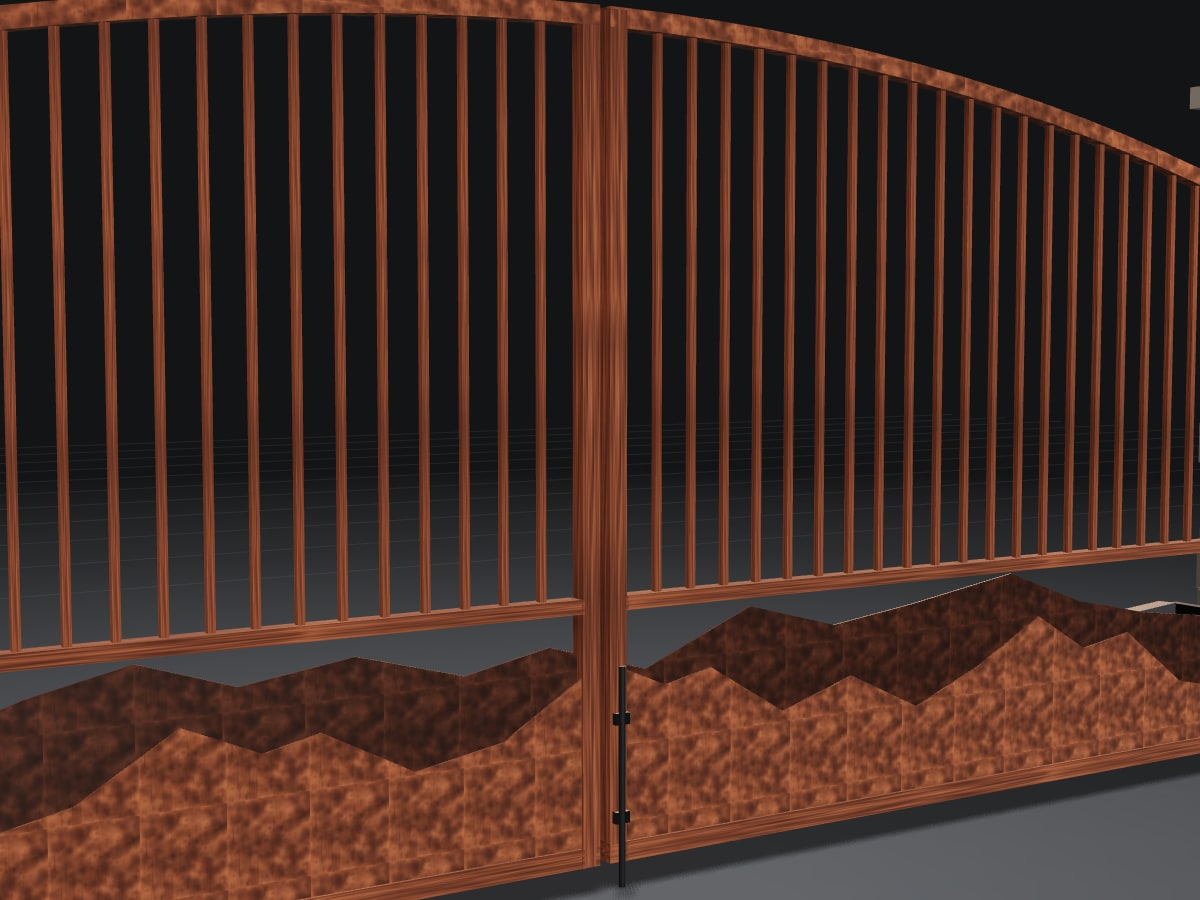
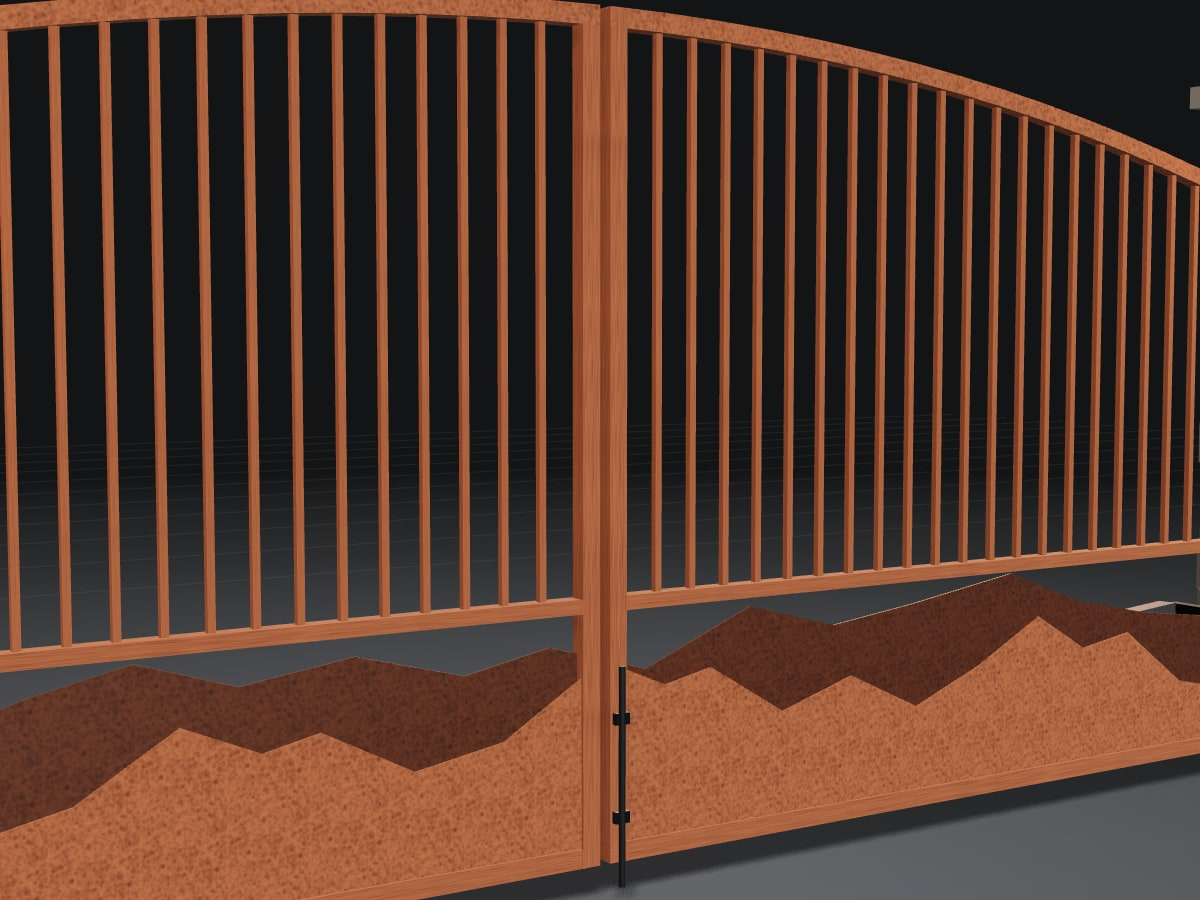
QA pass: static image pipeline, GPU fallbacks, accessibility and overflow fixes
- Build images to static AVIF/WebP instead of a runtime image CDN
- Keep scroll-driven stills on devices without GPU acceleration, and hand
  back to stills if a device cannot hold frame rate
- Fix Enter key on wizard buttons, definition list markup, grid overflow
  on phones, long button labels and heading line breaks
- Add static build audit and browser accessibility checks
- Refine patina texture and re-render concept images

Claude-Session: https://claude.ai/code/session_01G5NsSQBXCEEwLY9mzi1Ke2

diff --git a/src/scripts/studio-page.ts b/src/scripts/studio-page.ts
@@ -82,7 +82,7 @@ if (root) {
       t.setAttribute('aria-selected', String(on));
     });
     root.querySelectorAll<HTMLElement>('[data-panel]').forEach((p) => (p.hidden = p.dataset.panel !== v));
-    tools.style.visibility = v === '3d' ? 'visible' : 'hidden';
+    tools.hidden = v !== '3d';
     apply();
   };
   tabs.forEach((t, i) => {
@@ -97,18 +97,38 @@ if (root) {
 
   apply();
 
+  const start3d = async () => {
+    const { initStudio } = await import('@/three/studio');
+    const { spec, finish } = read();
+    const state: StudioState = { spec, finish, ...toggles };
+    handle = initStudio(canvas, state, {
+      preserve: new URLSearchParams(location.search).has('capture'),
+      onReady: () => (fallback.hidden = true),
+    });
+    (window as any).__studio = handle;
+  };
+
   (async () => {
     try {
+      const params = new URLSearchParams(location.search);
       const probe = document.createElement('canvas');
-      if (!(probe.getContext('webgl2') || probe.getContext('webgl'))) throw new Error('no webgl');
-      const { initStudio } = await import('@/three/studio');
-      const { spec, finish } = read();
-      const state: StudioState = { spec, finish, ...toggles };
-      handle = initStudio(canvas, state, {
-        preserve: new URLSearchParams(location.search).has('capture'),
-        onReady: () => (fallback.hidden = true),
-      });
-      (window as any).__studio = handle;
+      const gl = (probe.getContext('webgl2') || probe.getContext('webgl')) as WebGLRenderingContext | null;
+      if (!gl) throw new Error('no webgl');
+      const info = gl.getExtension('WEBGL_debug_renderer_info');
+      const gpu = info ? String(gl.getParameter(info.UNMASKED_RENDERER_WEBGL)) : '';
+      const software = /swiftshader|llvmpipe|softpipe|software|basic render/i.test(gpu);
+      if (software && !params.has('capture') && !params.has('force3d')) {
+        // No GPU acceleration: start on the drawing and let the visitor opt in to 3D.
+        loading.innerHTML = '3D runs slowly without graphics acceleration. <button type="button" class="underline" data-load-3d>Load the 3D model anyway</button>';
+        loading.querySelector('[data-load-3d]')!.addEventListener('click', async () => {
+          loading.textContent = 'Loading 3D model';
+          await start3d();
+          select('3d');
+        });
+        select('elev');
+        return;
+      }
+      await start3d();
     } catch {
       // No WebGL: the drawings still work, so switch to the elevation view.
       loading.textContent = '3D is not available on this device. Showing the elevation drawing instead.';

diff --git a/src/three/stage.ts b/src/three/stage.ts
@@ -67,19 +67,23 @@ function noiseTexture(kind: 'plain' | 'patina' | 'spangle') {
     let s = kind === 'patina' ? 11 : 29;
     const rand = () => ((s = (s * 1664525 + 1013904223) >>> 0) / 4294967296);
     if (kind === 'patina') {
-      // mottled oxide: soft dark blooms and a few bright streaks
-      for (let i = 0; i < 900; i++) {
-        const x = rand() * size, y = rand() * size, r = 4 + rand() * 26;
+      // mottled oxide: many small soft blooms, fine grain and faint vertical run marks
+      for (let i = 0; i < 2600; i++) {
+        const x = rand() * size, y = rand() * size, r = 1.5 + rand() * 8;
         const g = ctx.createRadialGradient(x, y, 0, x, y, r);
-        const dark = rand() > 0.35;
-        g.addColorStop(0, dark ? `rgba(70,32,14,${0.06 + rand() * 0.14})` : `rgba(255,190,130,${0.03 + rand() * 0.07})`);
+        const dark = rand() > 0.4;
+        g.addColorStop(0, dark ? `rgba(72,34,16,${0.05 + rand() * 0.11})` : `rgba(255,196,140,${0.03 + rand() * 0.06})`);
         g.addColorStop(1, 'rgba(0,0,0,0)');
         ctx.fillStyle = g;
         ctx.fillRect(x - r, y - r, r * 2, r * 2);
       }
-      for (let i = 0; i < 60; i++) {
-        ctx.fillStyle = `rgba(50,22,10,${0.05 + rand() * 0.1})`;
-        ctx.fillRect(rand() * size, rand() * size, 1 + rand() * 2, 20 + rand() * 90);
+      for (let i = 0; i < 5000; i++) {
+        ctx.fillStyle = rand() > 0.5 ? 'rgba(60,28,12,0.07)' : 'rgba(255,210,170,0.05)';
+        ctx.fillRect(rand() * size, rand() * size, 1, 1);
+      }
+      for (let i = 0; i < 40; i++) {
+        ctx.fillStyle = `rgba(52,24,10,${0.03 + rand() * 0.05})`;
+        ctx.fillRect(rand() * size, rand() * size, 1 + rand() * 1.5, 30 + rand() * 110);
       }
     } else {
       // zinc spangle: angular crystalline patches

diff --git a/src/scripts/wizard.ts b/src/scripts/wizard.ts
@@ -21,6 +21,7 @@ if (root) {
   const submitError = root.querySelector<HTMLElement>('[data-submit-error]')!;
   const submitErrorText = root.querySelector<HTMLElement>('[data-submit-error-text]')!;
   const summary = document.querySelector<HTMLElement>('[data-summary]')!;
+  const summaryEmpty = document.querySelector<HTMLElement>('[data-summary-empty]');
   const pathStep = root.querySelector<HTMLElement>('[data-step="path"]')!;
   const contactStep = root.querySelector<HTMLElement>('[data-step="contact"]')!;
   const query = new URLSearchParams(location.search);
@@ -82,9 +83,9 @@ if (root) {
       if (files.length) rows.push(['Attachments', `${files.length} file${files.length > 1 ? 's' : ''}`]);
     }
     if (studio) rows.push(['Studio design', studio]);
-    summary.innerHTML = rows.length
-      ? rows.map(([k, v]) => `<div class="row"><dt>${k}</dt><dd>${v.replace(/</g, '&lt;')}</dd></div>`).join('')
-      : '<div class="text-sm text-steel-500">Your answers appear here as you go.</div>';
+    summary.innerHTML = rows.map(([k, v]) => `<div class="row"><dt>${k}</dt><dd>${v.replace(/</g, '&lt;')}</dd></div>`).join('');
+    summary.hidden = rows.length === 0;
+    if (summaryEmpty) summaryEmpty.hidden = rows.length > 0;
   };
 
   const save = () => {
@@ -215,7 +216,8 @@ if (root) {
 
   // Enter moves forward instead of submitting early.
   form.addEventListener('keydown', (e) => {
-    if (e.key === 'Enter' && (e.target as HTMLElement).tagName !== 'TEXTAREA' && current() !== contactStep) {
+    // Only for inputs: buttons (Back, Continue) keep their normal Enter behavior.
+    if (e.key === 'Enter' && (e.target as HTMLElement).tagName === 'INPUT' && current() !== contactStep) {
       e.preventDefault();
       if (index > 0) go(1);
     }

diff --git a/src/scripts/theater.ts b/src/scripts/theater.ts
@@ -66,16 +66,32 @@ if (root && live) {
 
   const boot = async () => {
     try {
+      const params = new URLSearchParams(location.search);
+      const force = params.has('capture') || params.has('force3d');
       const probe = document.createElement('canvas');
-      if (!(probe.getContext('webgl2') || probe.getContext('webgl'))) return;
+      const gl = (probe.getContext('webgl2') || probe.getContext('webgl')) as WebGLRenderingContext | null;
+      if (!gl) return;
+      // Software WebGL (no GPU acceleration) cannot hold frame rate on this scene.
+      // Those devices keep the scroll-driven stills instead.
+      const info = gl.getExtension('WEBGL_debug_renderer_info');
+      const gpu = info ? String(gl.getParameter(info.UNMASKED_RENDERER_WEBGL)) : '';
+      if (!force && /swiftshader|llvmpipe|softpipe|software|basic render/i.test(gpu)) return;
       const conn = (navigator as any).connection;
-      if (conn?.saveData) return;
+      if (!force && conn?.saveData) return;
       const { initHero } = await import('@/three/hero');
       handle = initHero({
         canvas, overlay,
-        preserve: new URLSearchParams(location.search).has('capture'),
+        preserve: params.has('capture'),
         onFinish: setFinish,
         onReady: () => root.classList.add('is-3d'),
+        onTooSlow: () => {
+          if (force) return;
+          // Even at the lowest resolution the device is struggling: hand back to the stills.
+          root.classList.remove('is-3d');
+          handle?.dispose();
+          handle = null;
+          overlay.replaceChildren();
+        },
       });
       handle.setProgress(progress(), true);
       window.__gate = handle;

diff --git a/src/data/nav.ts b/src/data/nav.ts
@@ -38,7 +38,7 @@ export const divisions: Division[] = [
     summary:
       'Driveway, estate, ranch and commercial gates designed around your opening, your grade and your winters, then fabricated and installed by the same crew.',
     seoTitle: 'Custom gates in North Idaho',
-    description: 'Custom driveway, estate, sliding, ranch and commercial gates designed, fabricated and installed by Idaho Gate Co. across North Idaho and the Inland Northwest.',
+    description: 'Custom driveway, estate, sliding, ranch and commercial gates designed, fabricated and installed by Idaho Gate Co. across North Idaho.',
     heading: 'Custom gates, drawn for your opening and built in our shop.',
     intro: [
       'Every gate we build starts with a site visit and a drawing. Width, grade, swing room, snow and wind decide the type. Your home and your taste decide the look.',

diff --git a/src/styles/global.css b/src/styles/global.css
@@ -152,6 +152,11 @@
   summary {
     cursor: pointer;
   }
+  /* Grid items default to min-width:auto, which lets a wide table or a row of
+     buttons push the whole page sideways on phones. Let them shrink instead. */
+  .grid > * {
+    min-width: 0;
+  }
   summary::-webkit-details-marker {
     display: none;
   }
@@ -316,6 +321,13 @@
       border-color 0.2s,
       transform 0.2s var(--ease-out-expo);
     white-space: nowrap;
+  }
+  @media (max-width: 30rem) {
+    .btn {
+      max-width: 100%;
+      white-space: normal;
+      text-align: center;
+    }
   }
   .btn:hover {
     --btn-bg: var(--color-ember-700);

diff --git a/src/three/hero.ts b/src/three/hero.ts
@@ -83,6 +83,8 @@ export interface HeroOptions {
   onStage?(index: number): void;
   onFinish?(name: string): void;
   onReady?(): void;
+  /** called when the device cannot hold frame rate even at the lowest quality */
+  onTooSlow?(): void;
   preserve?: boolean;
 }
 
@@ -636,6 +638,9 @@ export function initHero(opts: HeroOptions): HeroHandle {
         quality *= 0.8;
         slowFrames = 0;
         resize();
+      } else if (slowFrames > 40 && quality <= 0.55) {
+        slowFrames = 0;
+        opts.onTooSlow?.();
       }
     }
   };

diff --git a/README.md b/README.md
@@ -41,10 +41,14 @@ Output goes to `dist/`.
 | `npm run check` | TypeScript and Astro diagnostics |
 | `npm run check:content` | Title and description length, dash and placeholder lint |
 | `npm run test:e2e` | End-to-end conversion test (needs the dev server running with test env, see the top of `scripts/e2e.cjs`) |
+| `npm run audit` | Static audit of `dist/`: one h1, titles, descriptions, canonicals, JSON-LD, alt text and every internal link |
+| `npm run test:a11y` | Browser checks against a served build: phone overflow, thumb-reach CTAs, keyboard use, reduced motion, no JavaScript |
 | `npm run render:stills` | Re-render the homepage theater fallback stills from the live 3D scene |
 | `npm run render:presets` | Re-render every concept gate image from the studio scene |
 
-The two render commands need the dev server running and Playwright with Chromium installed.
+The two render commands need the dev server running and Playwright with Chromium installed. `npm run test:a11y` expects the build served at http://127.0.0.1:4400, for example with `npx serve dist -l 4400`.
+
+Astro 7 runs the dev server as a background process. Stop it with `npx astro dev stop`.
 
 ## Before launch
 
